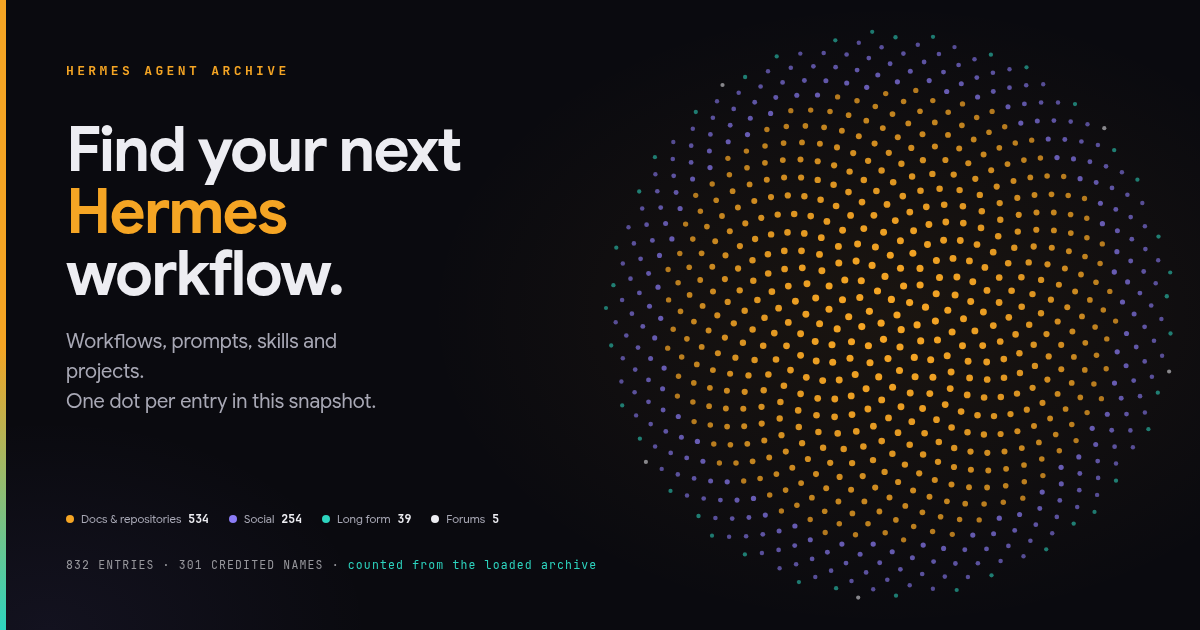
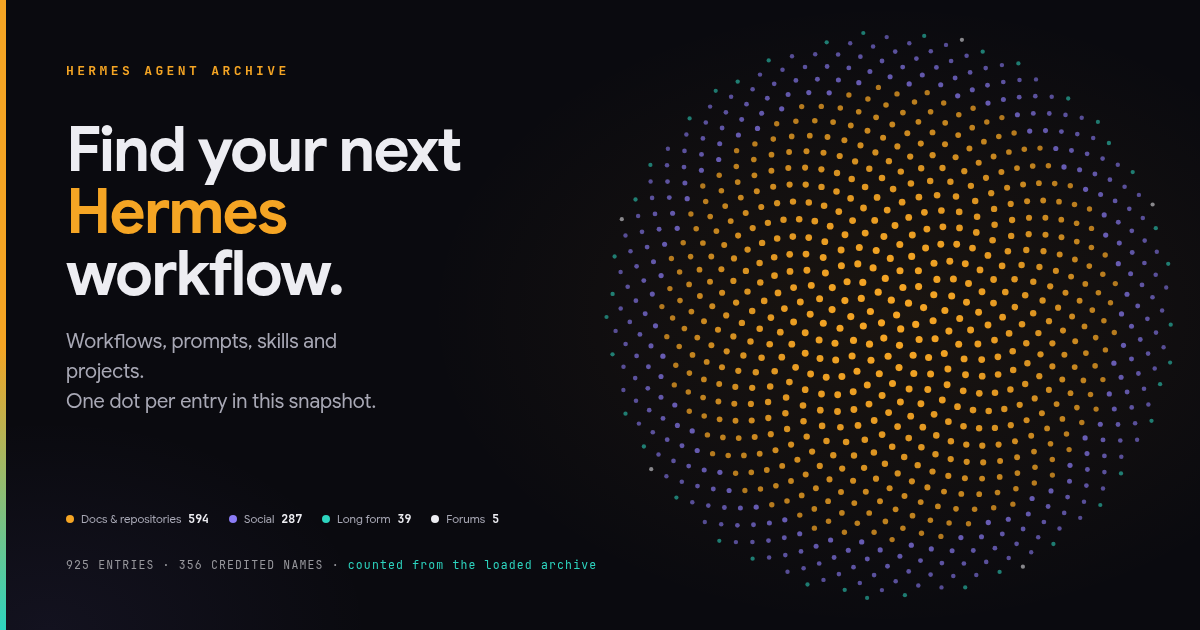
Make the public counts say what the archive holds (#54)
Four places told visitors a number that was no longer true. The social card
and the hero were generated on 26 September and still claimed 832 entries. The
README's shelf table listed the pre-cleanup counts. The readiness document said
973 stored and 969 eligible.

The site itself was never wrong - it counts what it loads - but the social card
is what people see when the link is posted, and it was three weeks stale.

All four now read from the data: 929 stored, 925 eligible, 925 dots on the hero,
356 people credited. The shelf table is regenerated from data/index.json rather
than typed, so the next change moves it.

The readiness note also says plainly why the number went down. 973 to 929 is a
removal, not a loss: 53 documentation fragments taken out deliberately, each one
recorded in scripts/pruned-doc-fragments.json. A count that drops without
explanation looks like data went missing.

Stored and eligible stay separate on purpose. An entry is kept permanently and
shown only while it still qualifies, so a repository falling below the star
floor keeps its write-up and leaves the shelf.

Changed region(s): [[0.4933, 0.0603, 0.9867, 0.9349]]

diff --git a/docs/RELEASE_READINESS.md b/docs/RELEASE_READINESS.md
@@ -27,16 +27,20 @@ deploying are separate steps. No installation into the owner's Desktop was perfo
 
 ## Evidence and limits
 
-- `npm run check`: 973 stored entries across nine content shelves; Dashboard and Trending are computed.
+- `npm run check`: 929 stored entries across nine content shelves; Dashboard and Trending are computed.
 - `npm test`: 101 tests passed, including importer, ranking, local-server, plugin and installer regression tests. Plugin tests use SDK stand-ins, not a real Hermes Desktop instance.
 - During the September 26 review, a clean local clone passed both commands with an empty credential environment and no `.env` or `node_modules`. Its preview server served the four tricks and refused maintenance-script requests. Installer tests used disposable homes; the owner's installed plugin was not changed.
 - The prior merged release passed source-attribution and documentation-anchor checks. The link checker does not fetch every social post or verify redistribution rights.
 - GitHub read-only checks on 2026-09-26: public repository, secret scanning and push protection enabled, private vulnerability reporting enabled, zero open secret-scanning alerts returned. This is not a complete secrets-history or security audit.
 - Only `.env.example` is tracked among environment/configuration paths checked; real credentials and Vercel project configuration remain ignored.
 
-Stored counts at this review: Use Cases 392, Commands 292, Settings 118, Skills 79,
-Prompts 32, My Work 11, Works With 18, People Build 27 and Hidden Tricks 4.
-969 are currently eligible to display; stored entries are retained when ineligible.
+Stored counts at this review: Use Cases 371, Commands 278, Settings 114, Skills 65,
+People Build 36, Prompts 32, Works With 18, My Work 11 and Hidden Tricks 4.
+925 are currently eligible to display; stored entries are retained when ineligible.
+
+The drop from 973 is a removal, not a loss: 53 documentation fragments — numbered
+procedure steps and bare section labels that mean nothing as cards — were taken out
+deliberately, and every one of them is recorded in `scripts/pruned-doc-fragments.json`.
 
 The September 29 browser fixture confirmed that an embedded archive sends the selected
 original-source URL to the host. Native Hermes Desktop confirmation and external browser

diff --git a/README.md b/README.md
@@ -53,15 +53,15 @@ The star cutoff is an editorial preference. It excludes smaller and newer projec
 | Shelf | Holds | Now |
 | --- | --- | --- |
 | **Dashboard** | Counted live from what is loaded, never stored or estimated. | computed |
-| **Use Cases** | Real user stories, each quoted and linked to the original post. | 392 |
+| **Use Cases** | Real user stories, each quoted and linked to the original post. | 371 |
 | **Trending GitHub** | Documented integrations with measured star growth per day. | computed |
-| **Skills** | Packaged capabilities you install rather than re-prompt. | 79 |
+| **Skills** | Packaged capabilities you install rather than re-prompt. | 65 |
 | **Prompts** | Copyable examples, each verified against the page it cites. | 32 |
-| **Settings** | Configuration that materially changes how a run behaves. | 118 |
-| **Commands** | Commands and invocations, by how often they earn their keystrokes. | 292 |
+| **Settings** | Configuration that materially changes how a run behaves. | 114 |
+| **Commands** | Commands and invocations, by how often they earn their keystrokes. | 278 |
 | **Hidden Tricks** | Attributed community techniques checked against a pinned documentation corpus. | 4 |
 | **Works With** | Repositories worth pairing with Hermes, each read before listing. | 18 |
-| **People Build** | Projects built on Hermes and shown off publicly. | 27 |
+| **People Build** | Projects built on Hermes and shown off publicly. | 36 |
 | **My Work** | The maintainer's own posts, with analytics explicitly credited. | 11 |
 
 These are stored counts at the September 29 review (973 entries), not a promise that all entries qualify for display. Hidden Tricks and Prompts accept only reviewed extraction; the classifier cannot populate them. The four tricks include quotations and a bounded documentation-absence check, with 15 rejected candidates recorded. See [the reproducible evidence](docs/HIDDEN_TRICKS.md).
